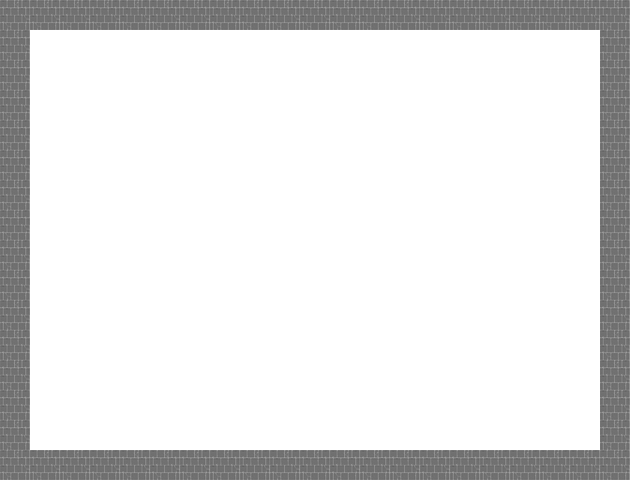
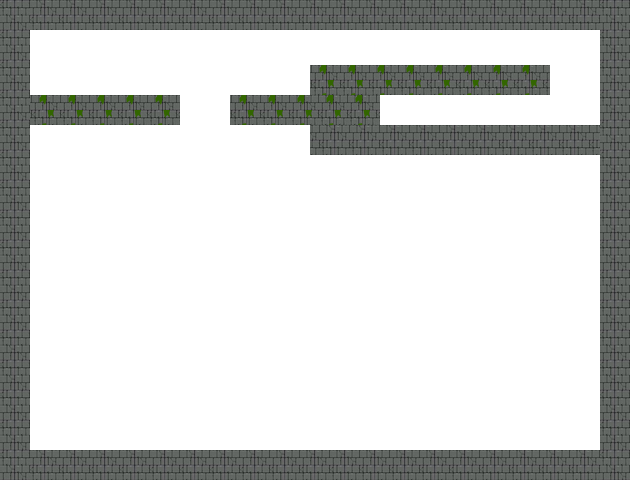
More

Changed region(s): [[0.0, 0.0, 1.0, 1.0]]

diff --git a/SampleGames/ShaculaV2/index.html b/SampleGames/ShaculaV2/index.html
@@ -20,7 +20,9 @@
 	<script language="Javascript" src="scripts/dayCounter.js"></script>
     <script language="Javascript" src="scripts/level.js"></script>
     <script language="Javascript" src="scripts/spike.js"></script>
+    <script language="Javascript" src="scripts/blood.js"></script>
     <script language="Javascript" src="scripts/cloud.js"></script>
+    <script language="Javascript" src="scripts/coffin.js"></script>
 	
 	<body>
 		<canvas id="canvas" width="630" height="480"></canvas>
@@ -77,9 +79,9 @@
 						graphic: jsGFwk.ResourceManager.graphics.all.image,
 						top: 77, left: 1352, width: 630, height: 480});
 					
-					jsGFwk.Sprites.createSprite({id: "goal", 
-						graphic: jsGFwk.ResourceManager.graphics.all.image,
-						top: 15, left: 396, width: 24, height: 36});
+					jsGFwk.Sprites.createSpriteCollection("goal", jsGFwk.ResourceManager.graphics.all.image,
+						[{top: 15, left: 395, width: 25, height: 36},
+                         {top: 15, left: 429, width: 31, height: 36}]);
 
 					jsGFwk.Sprites.createSpriteCollection("oilWave", 
 						jsGFwk.ResourceManager.graphics.all.image, 
@@ -208,15 +210,18 @@
 					
                     GLOBAL.spikeContainer = jsGFwk.Container.createContainer('spikes', Spike, true);
                     GLOBAL.cloudContainer = jsGFwk.Container.createContainer('clouds', Cloud, true);
+                    GLOBAL.bloodContainer = jsGFwk.Container.createContainer('bloods', Blood, true);
                     
 					jsGFwk.Scenes.create({name: "main", gameObjects: [hud, GLOBAL.cloudContainer] });
 							
 					jsGFwk.Scenes.create({name: "game", 
 						gameObjects: [background, gameController,
-							GLOBAL.spikeContainer,
+							GLOBAL.spikeContainer, GLOBAL.bloodContainer,
+                            Coffin,
                             dracul, dayCounter] });
 								
-					jsGFwk.Scenes.scenes.main.enable();
+					//jsGFwk.Scenes.scenes.main.enable();
+                    jsGFwk.Scenes.scenes.game.enable();
 					
 					jsGFwk._gameObjects.progress.destroy();
 				};

diff --git a/SampleGames/ShaculaV2/scripts/blood.js b/SampleGames/ShaculaV2/scripts/blood.js
@@ -1,0 +1,33 @@
+var Blood = {
+    onInit: function (parameters) {
+        this.x = parameters.x;
+        this.y = parameters.y;
+        this.height = 30;
+        this.width = 12;
+        this.powerUpAccumulator = 0;
+        this.powerUpWait = 0.1;
+        this.powerUpPointer = 0;
+    },
+    onUpdate: function (delta) {
+        if (dracul.isRectColliding(this)) {
+            GLOBAL.minRadiusLight += 20;
+            GLOBAL.maxRadiusLight += 20;
+            
+            if (GLOBAL.bloodContainer.length() === 1) {
+                Coffin.isOpen = 1;
+            }
+            
+            this.destroy();
+        }
+        
+        this.powerUpAccumulator += delta;
+        if (this.powerUpAccumulator >= this.powerUpWait) {
+            this.powerUpAccumulator = 0;
+            this.powerUpPointer++;
+            this.powerUpPointer = this.powerUpPointer % jsGFwk.Sprites.powerUp.spriteBag.length;
+        }
+    },
+    onDraw: function (ctx) {
+        ctx.drawImage(jsGFwk.Sprites.powerUp.spriteBag[this.powerUpPointer].image, this.x, this.y);
+    }
+};

diff --git a/SampleGames/ShaculaV2/scripts/level.js b/SampleGames/ShaculaV2/scripts/level.js
@@ -5,14 +5,22 @@ var Levels = [
             { width: 30, height: 480, x: 0, y: 0 },
             { width: 570, height: 30, x: 30, y: 0 },
             { width: 30, height: 480, x: 600, y: 0 },
-            { width: 570, height: 30, x: 30, y: 450 }
+            { width: 570, height: 30, x: 30, y: 450 },
+            
+            { width: 150, height: 30, x: 30, y: 95 },
+            { width: 150, height: 30, x: 230, y: 95 },
+            { width: 240, height: 30, x: 310, y: 65 },
+            { width: 290, height: 30, x: 310, y: 125 }
+            
         ],
         spikes: [
-            { x: 50, y: 145, delay: 1.5 }
+            { x: 390, y: 118, delay: 1.5 },
+            { x: 447, y: 118, delay: 1.7 },
+            { x: 510, y: 118, delay: 1.2 }
         ],
         blood: [
-            //{ x: }
+            { x: 425, y: 90 }
         ],
-        coffin: {},
+        coffin: { x: 300, y: 400 },
     }
 ];

diff --git a/SampleGames/ShaculaV2/scripts/dracul.js b/SampleGames/ShaculaV2/scripts/dracul.js
@@ -1,7 +1,7 @@
 var dracul = {
 	id: "dracul", visible: true,
 	isRight: true, movementSpeed: 1.5,
-	x: 560, y: 30, width: 15, height: 30,
+	x: 560, y: 30, width: 15, height: 28,
 	animCounter: 0, animDelay: 0.2,
 	diffLight: 0, diffLightSinc: 0,
 	oilOffsetX: 20, oilOffsetY: 150,
@@ -47,12 +47,12 @@ var dracul = {
 	},
 	
 	drawLigth: function (context) {
-        var gradient = context.createRadialGradient(this.x + 10, this.y + 10, 1,
+        /*var gradient = context.createRadialGradient(this.x + 10, this.y + 10, 1,
             this.x + 15, this.y + 15, GLOBAL.maxRadiusLight + this.diffLight);
         gradient.addColorStop(0, "transparent");
         gradient.addColorStop(1, "black");
         context.fillStyle = gradient;
-        context.fillRect(0, 0, 640, 480);
+        context.fillRect(0, 0, 640, 480);*/
 	},
 	
 	/*DEAD STATE*/	

diff --git a/SampleGames/ShaculaV2/scripts/gameController.js b/SampleGames/ShaculaV2/scripts/gameController.js
@@ -7,11 +7,20 @@ var gameController = {
     createLevel: function () {
         var levelToCreate = Levels[GLOBAL.currentLevel];
         
+        //Spikes
         for (var i = 0; i < levelToCreate.spikes.length; i++) {
             GLOBAL.spikeContainer.cloneObject({
                 x: levelToCreate.spikes[i].x,
                 y: levelToCreate.spikes[i].y,
                 delay: levelToCreate.spikes[i].delay 
+            });
+        }
+        
+        //Blood
+        for (var i = 0; i < levelToCreate.blood.length; i++) {
+            GLOBAL.bloodContainer.cloneObject({
+                x: levelToCreate.blood[i].x,
+                y: levelToCreate.blood[i].y
             });
         }
     }

diff --git a/SampleGames/ShaculaV2/scripts/coffin.js b/SampleGames/ShaculaV2/scripts/coffin.js
@@ -1,0 +1,15 @@
+var Coffin = {
+    id: 'goal',
+    visible: true,
+    isOpen: 0,
+    init: function () {
+        this.isOpen = 0;
+    },
+    update: function (delta) {
+        
+    },
+    draw: function (ctx) {
+        ctx.drawImage(jsGFwk.Sprites.goal.spriteBag[this.isOpen].image,
+                     Levels[GLOBAL.currentLevel].coffin.x, Levels[GLOBAL.currentLevel].coffin.y);
+    }
+};
